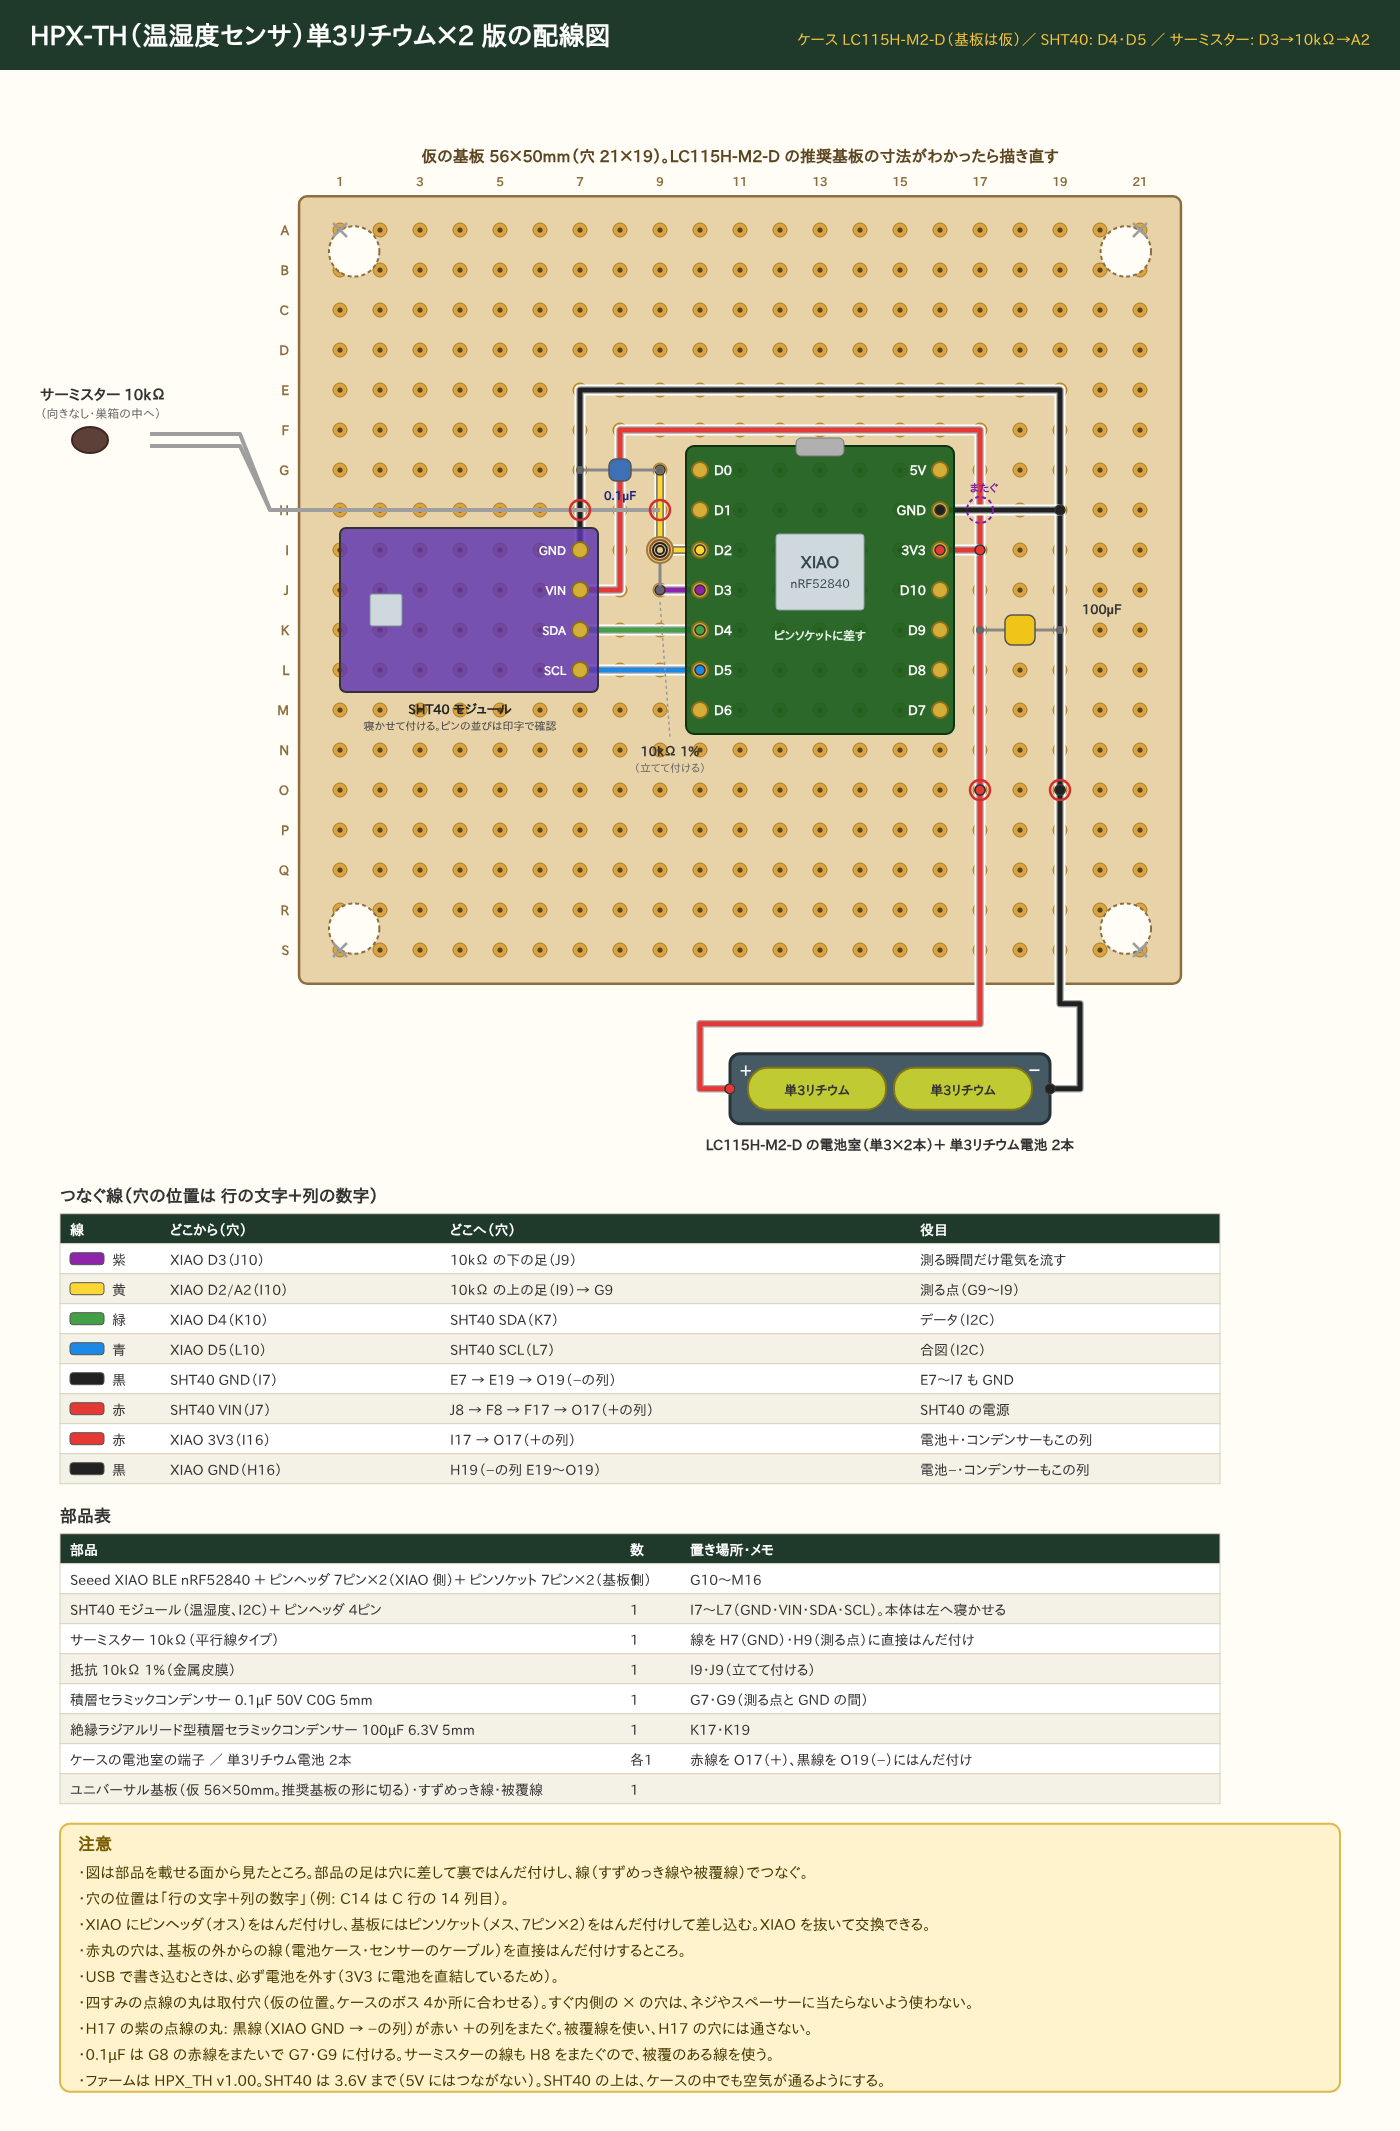
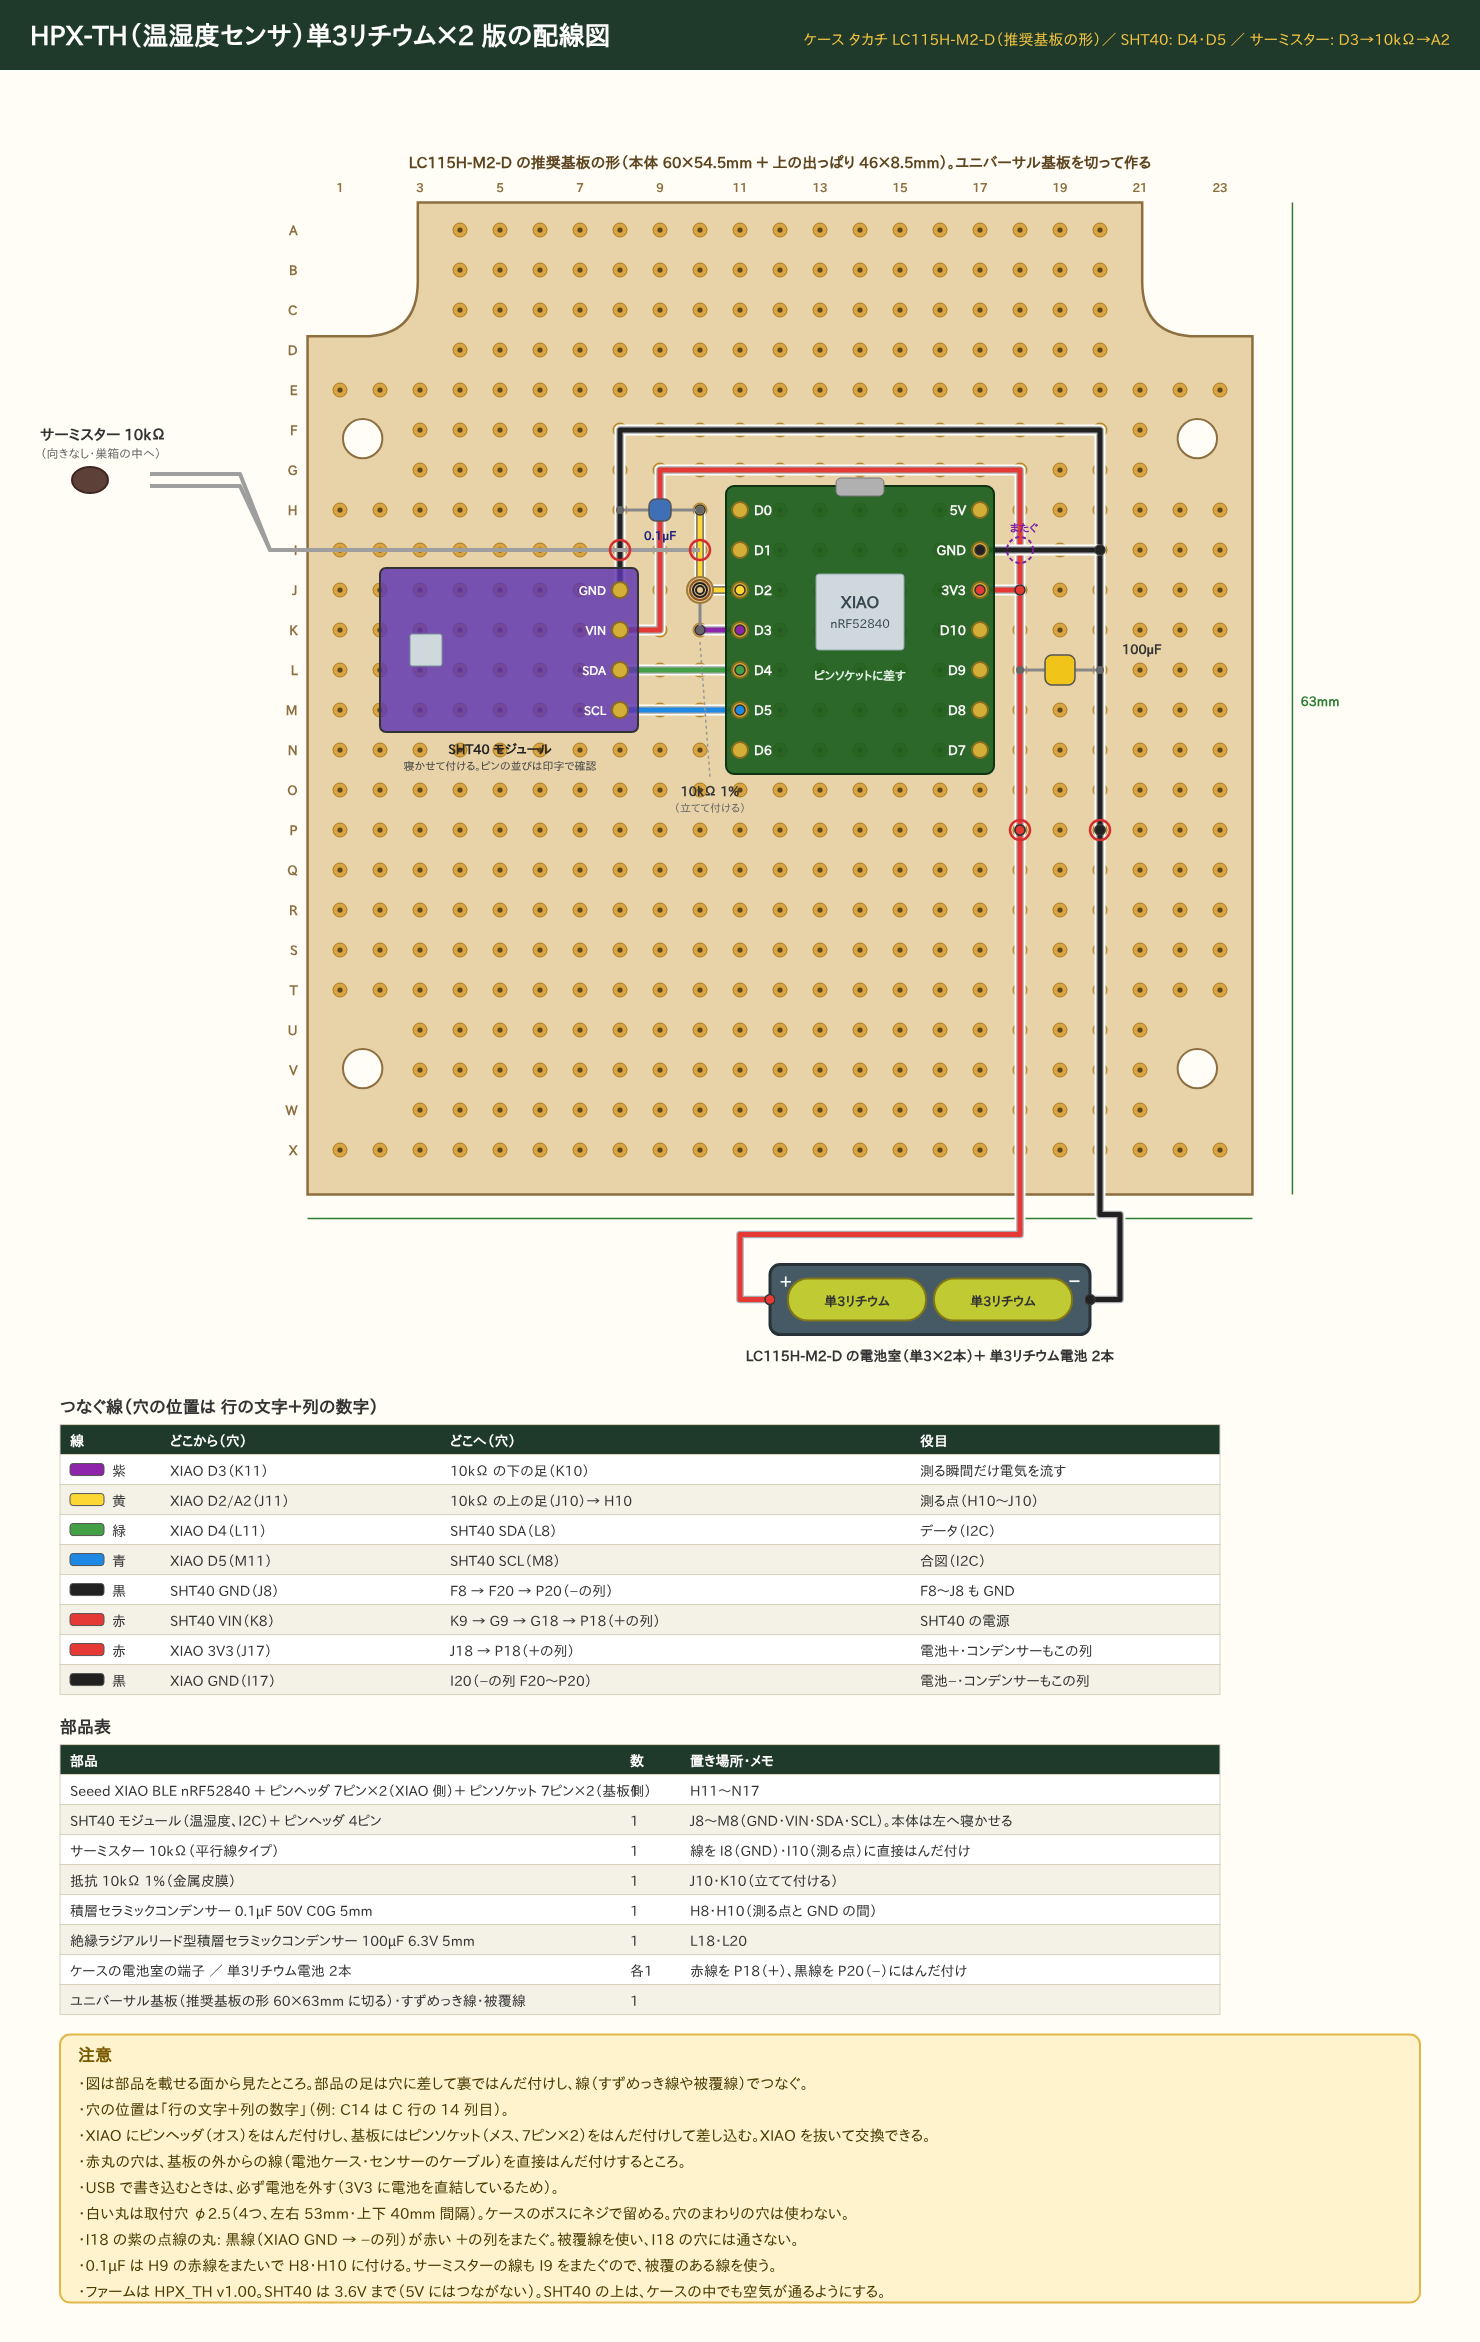
HPX-TH のページ: 単三版の配線図を LC115H の推奨基板の形で描き直したものに差し替える
Claude-Session: https://claude.ai/code/session_01LCC9B5q98qiA2vS65sbyRF

diff --git a/site/device-th.html b/site/device-th.html
@@ -213,7 +213,7 @@ SHT31・SHT41 なども使えます</span><span class="price">2,100円 / 5個入
         <a href="img/wiring/HPX-TH_CR123A_TNF39-59.png" target="_blank" rel="noopener"><img src="img/wiring/HPX-TH_CR123A_TNF39-59.png" alt="HPX-TH CR123A 版の配線図" loading="lazy"></a>
       </figure>
       <figure class="wiring">
-        <figcaption><b>単三リチウム版の配線図</b>ケース LC115H-M2-D に入れる図です。推奨基板の寸法が確認できていないので、基板の大きさは仮 (56×50mm) です。</figcaption>
+        <figcaption><b>単三リチウム版の配線図</b>ケース LC115H-M2-D の推奨基板に部品を載せる図です。</figcaption>
         <a href="img/wiring/HPX-TH_AA_LC115H.png" target="_blank" rel="noopener"><img src="img/wiring/HPX-TH_AA_LC115H.png" alt="HPX-TH 単三リチウム版の配線図" loading="lazy"></a>
       </figure>
       <div class="soonbox">組み立ての手順は、準備ができしだい掲載します。</div>

diff --git a/hardware/parts/gen_device_pages.py b/hardware/parts/gen_device_pages.py
@@ -27,7 +27,7 @@ DEVICES = [
          lead='巣箱の中の温度と湿度を測り、Bluetooth で発信します。',
          variants=[('th_cr', 'CR123A 版'), ('th_aa', '単三リチウム版')],
          wiring=[('HPX-TH_CR123A_TNF39-59.png', 'CR123A 版の配線図', 'ケース SW-65B 用の基板 TNF39-59 に、CR123A 電池ケースを載せます。'),
-                 ('HPX-TH_AA_LC115H.png', '単三リチウム版の配線図', 'ケース LC115H-M2-D に入れる図です。推奨基板の寸法が確認できていないので、基板の大きさは仮 (56×50mm) です。')],
+                 ('HPX-TH_AA_LC115H.png', '単三リチウム版の配線図', 'ケース LC115H-M2-D の推奨基板に部品を載せる図です。')],
          note='電池は CR123A と単三リチウムの2通りから選べます。違うのはケースと電池まわりだけです。'),
     dict(key='a', file='device-a.html', tag='電柵アラート', name='HPX-A',
          lead='電柵のフェンスアラートの点滅を光センサで読み取り、電圧の低下を Bluetooth で知らせます。',
